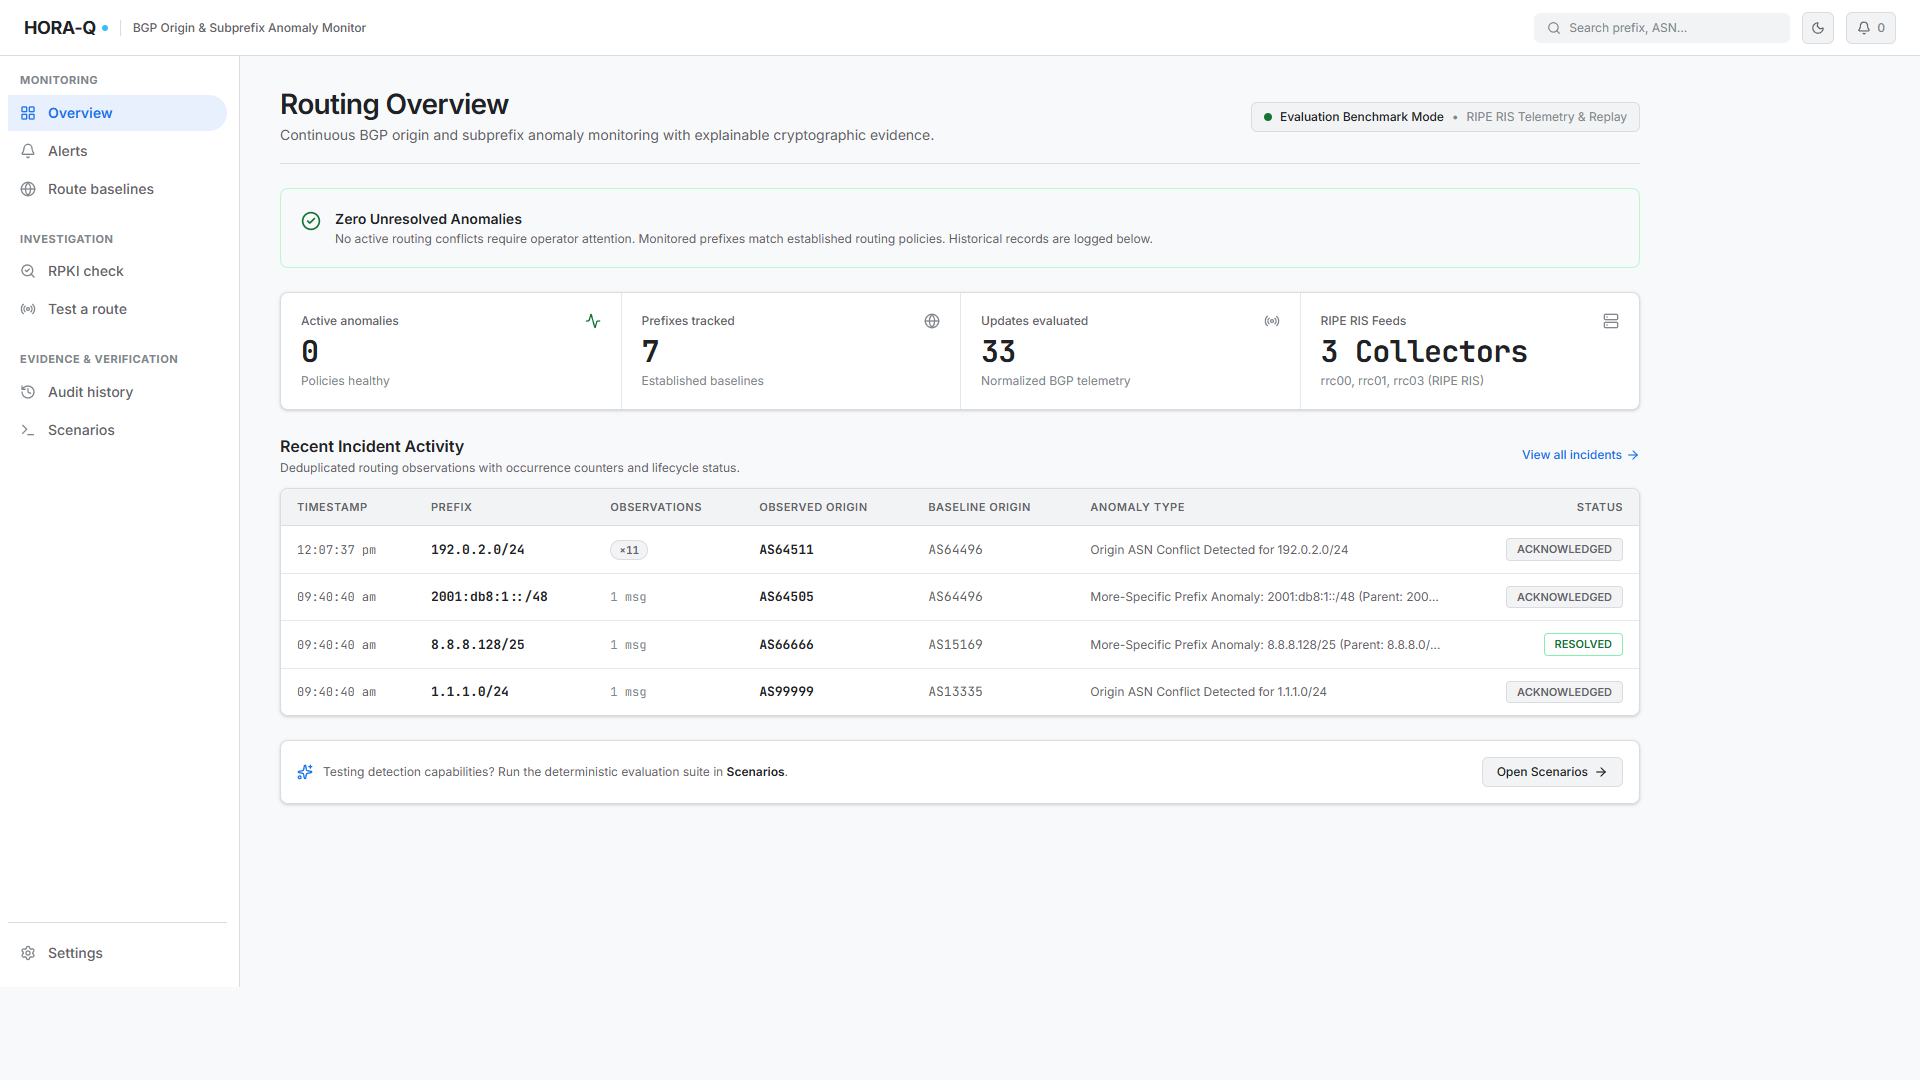
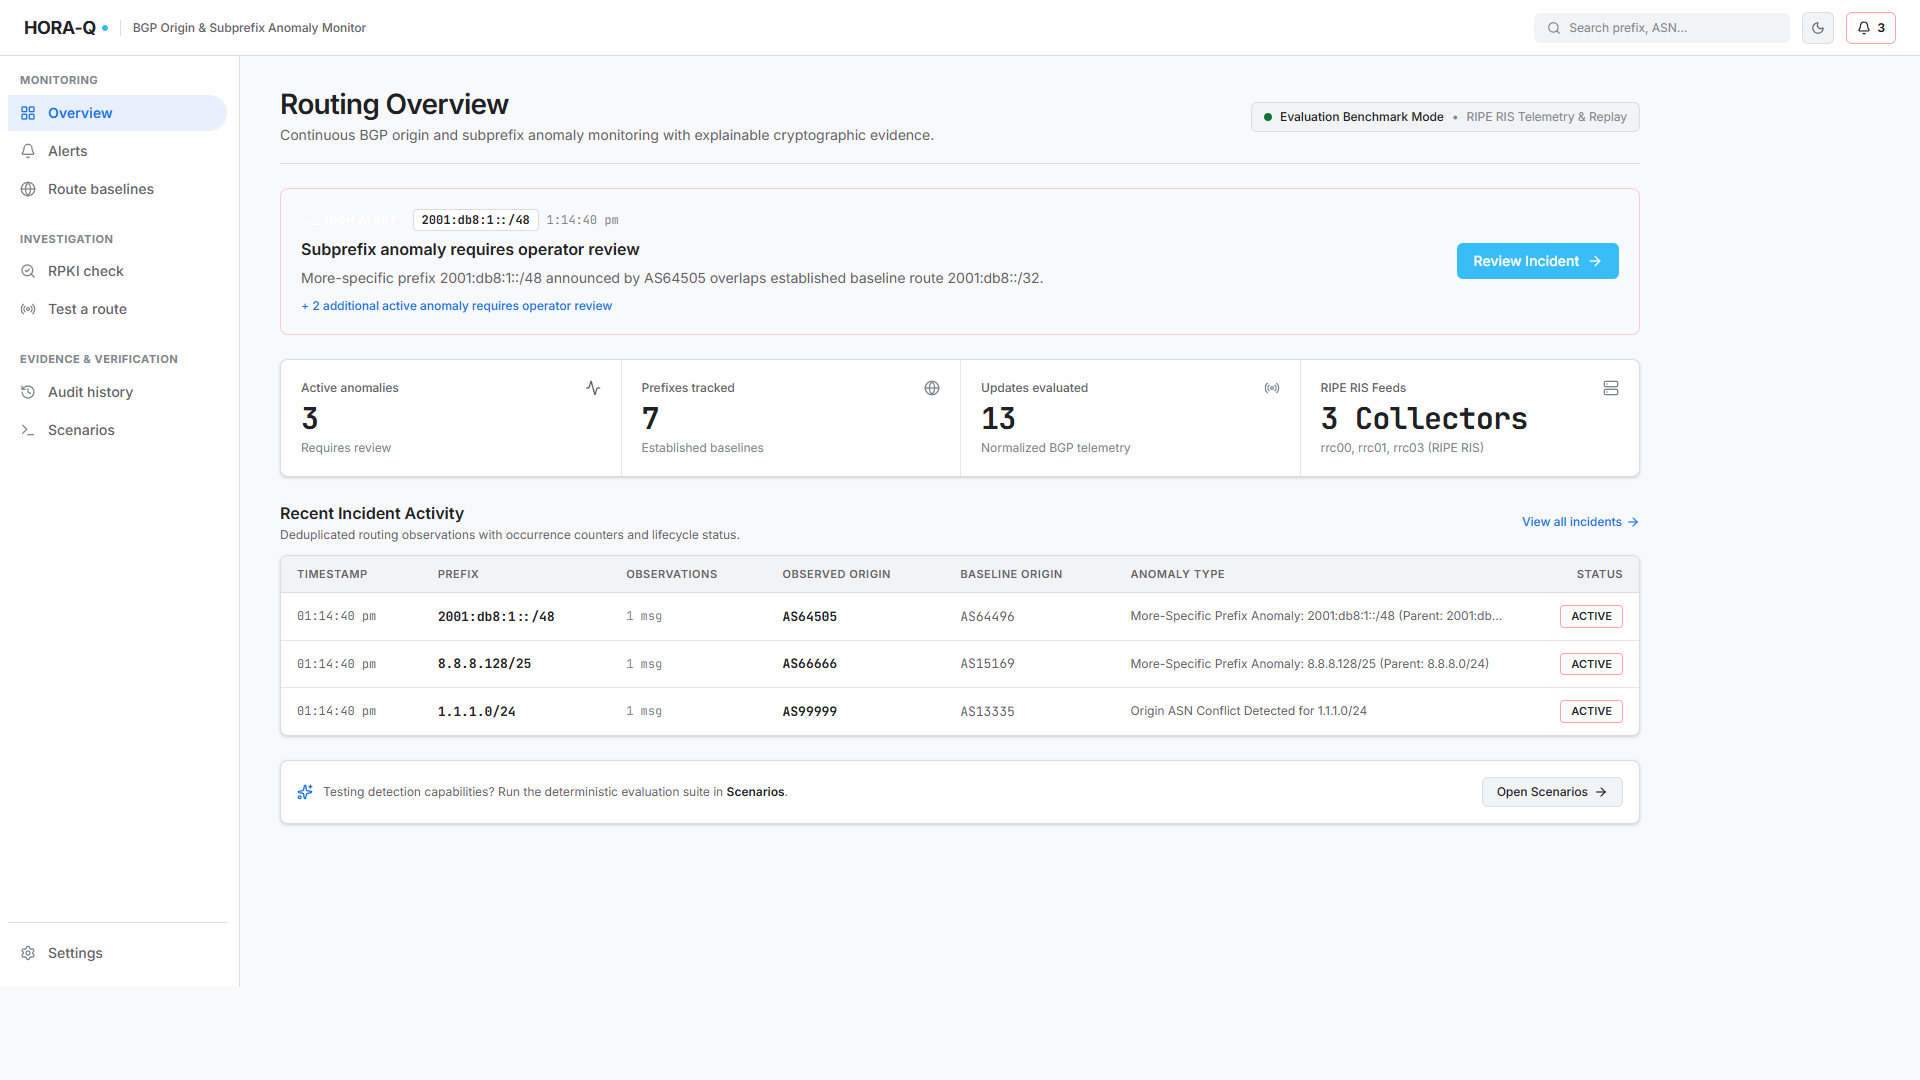
fix(consistency): resolve baseline poisoning, verify ML-DSA signing, and align cross-screen state

diff --git a/frontend/src/views/RPKIInspectorView.tsx b/frontend/src/views/RPKIInspectorView.tsx
@@ -27,6 +27,8 @@ export const RPKIInspectorView: React.FC = () => {
       setAsn(rpkiTarget.asn);
       handleValidate(rpkiTarget.prefix, rpkiTarget.asn);
       setRpkiTarget(null);
+    } else if (!result) {
+      handleValidate("1.1.1.0/24", "AS13335");
     }
   }, [rpkiTarget]);
 

diff --git a/backend/horaq/api.py b/backend/horaq/api.py
@@ -504,24 +504,27 @@ async def run_scenario_endpoint(scenario_name: str) -> Dict[str, Any]:
         # Reset and seed realistic demonstrator data for live presentations
         reset_database(settings.database_path)
 
-        # 1. Establish well-known baseline roots
+        # 1. Establish trusted reference baseline roots
         b1 = process_observation(db_path=settings.database_path, prefix_raw="1.1.1.0/24", origin_asn_raw=13335, collector="rrc00", scenario="demo-seed")
         b2 = process_observation(db_path=settings.database_path, prefix_raw="8.8.8.0/24", origin_asn_raw=15169, collector="rrc00", scenario="demo-seed")
         b3 = process_observation(db_path=settings.database_path, prefix_raw="9.9.9.0/24", origin_asn_raw=19281, collector="rrc01", scenario="demo-seed")
         b4 = process_observation(db_path=settings.database_path, prefix_raw="2001:db8::/32", origin_asn_raw=64496, collector="rrc00", scenario="demo-seed")
+        b5 = process_observation(db_path=settings.database_path, prefix_raw="192.0.2.0/24", origin_asn_raw=64496, collector="rrc00", scenario="demo-seed")
+        b6 = process_observation(db_path=settings.database_path, prefix_raw="198.51.100.0/24", origin_asn_raw=64497, collector="rrc00", scenario="demo-seed")
+        b7 = process_observation(db_path=settings.database_path, prefix_raw="203.0.113.0/24", origin_asn_raw=64499, collector="rrc00", scenario="demo-seed")
 
-        # 2. Inject Origin Conflict Incident
+        # 2. Inject Origin Conflict Incident (Baseline preserved, alert generated)
         a1 = process_observation(db_path=settings.database_path, prefix_raw="1.1.1.0/24", origin_asn_raw=99999, collector="rrc00", scenario="demo-origin-conflict")
 
-        # 3. Inject Subprefix Hijack Incident
+        # 3. Inject Subprefix Hijack Incident (Alert generated, baseline NOT poisoned)
         a2 = process_observation(db_path=settings.database_path, prefix_raw="8.8.8.128/25", origin_asn_raw=66666, collector="rrc03", scenario="demo-subprefix-hijack")
 
-        # 4. Inject IPv6 Subprefix Anomaly
+        # 4. Inject IPv6 Subprefix Anomaly (Alert generated, baseline NOT poisoned)
         a3 = process_observation(db_path=settings.database_path, prefix_raw="2001:db8:1::/48", origin_asn_raw=64505, collector="rrc00", scenario="demo-ipv6-subprefix")
 
         return {
             "scenario": "seed-demo",
-            "description": "Seeded 4 baselines and injected 3 realistic BGP anomaly incidents",
+            "description": "Seeded 7 trusted baselines and injected 3 realistic BGP anomaly incidents (baselines preserved against poisoning)",
             "alerts_generated": a1["alerts_count"] + a2["alerts_count"] + a3["alerts_count"],
             "expected_alerts": 3,
             "success": True,

diff --git a/backend/tests/test_detection.py b/backend/tests/test_detection.py
@@ -109,6 +109,12 @@ def test_subprefix_anomaly_detection(test_db):
     assert alert["parent_prefix"] == "192.0.2.0/24"
     assert alert["observed_asn"] == "AS64500"
 
+    # CRITICAL: Suspicious child subprefix MUST NOT poison or establish a baseline!
+    assert get_baseline_by_prefix(test_db, "192.0.2.128/25") is None
+    parent_base = get_baseline_by_prefix(test_db, "192.0.2.0/24")
+    assert parent_base is not None
+    assert parent_base["origin_asn"] == "AS64496"
+
 
 def test_ipv6_subprefix_anomaly_detection(test_db):
     # 1. Establish parent baseline: 2001:db8::/32
@@ -129,3 +135,50 @@ def test_ipv6_subprefix_anomaly_detection(test_db):
     alert = res["alerts"][0]
     assert alert["kind"] == "SUBPREFIX_ANOMALY"
     assert alert["parent_prefix"] == "2001:db8::/32"
+
+    # CRITICAL: Suspicious IPv6 child subprefix MUST NOT poison or establish a baseline!
+    assert get_baseline_by_prefix(test_db, "2001:db8:1::/48") is None
+    parent_base = get_baseline_by_prefix(test_db, "2001:db8::/32")
+    assert parent_base is not None
+    assert parent_base["origin_asn"] == "AS64496"
+
+
+def test_suspicious_subprefix_does_not_poison_baseline(test_db):
+    """Regression test proving complete baseline preservation against poisoning."""
+    # 1. Establish legitimate baseline
+    r1 = process_observation(
+        db_path=test_db,
+        prefix_raw="8.8.8.0/24",
+        origin_asn_raw=15169,
+        collector="rrc00",
+    )
+    assert r1["alerts_count"] == 0
+
+    # 2. Inject rogue subprefix
+    r2 = process_observation(
+        db_path=test_db,
+        prefix_raw="8.8.8.128/25",
+        origin_asn_raw=66666,
+        collector="rrc03",
+    )
+    assert r2["alerts_count"] == 1
+    assert r2["alerts"][0]["kind"] == "SUBPREFIX_ANOMALY"
+
+    # 3. Baselines table must contain ONLY 8.8.8.0/24, NOT 8.8.8.128/25
+    all_bases = get_all_baselines(test_db)
+    assert len(all_bases) == 1
+    assert all_bases[0]["prefix"] == "8.8.8.0/24"
+    assert all_bases[0]["origin_asn"] == "AS15169"
+    assert get_baseline_by_prefix(test_db, "8.8.8.128/25") is None
+
+    # 4. Subsequent legitimate parent observation increments observation_count
+    r3 = process_observation(
+        db_path=test_db,
+        prefix_raw="8.8.8.0/24",
+        origin_asn_raw=15169,
+        collector="rrc00",
+    )
+    assert r3["alerts_count"] == 0
+    updated_parent = get_baseline_by_prefix(test_db, "8.8.8.0/24")
+    assert updated_parent["observation_count"] == 2
+

diff --git a/backend/tests/test_crypto.py b/backend/tests/test_crypto.py
@@ -1,5 +1,4 @@
-"""Unit tests for ML-DSA-65 post-quantum signature behavior and no-fallback enforcement."""
-
+import base64
 import pytest
 from horaq.crypto import (
     ALGORITHM_NAME,
@@ -42,3 +41,29 @@ def test_crypto_behavior():
         # Tampered message fails verification
         tampered_data = b"Tampered evidence payload"
         assert verify_signature(tampered_data, sig_b64, pub_b64) is False
+
+        # Corrupted signature bytes fail verification
+        import base64
+        corrupted_sig = base64.b64encode(b"corrupted_signature_payload_bytes_0000").decode("ascii")
+        assert verify_signature(test_data, corrupted_sig, pub_b64) is False
+
+
+def test_corrupted_signature_rejected():
+    """Verify that an altered signature is rejected even when the payload is authentic."""
+    if not is_mldsa_available():
+        pytest.skip("ML-DSA provider not available in environment")
+
+    test_data = b'{"alert_id":"alert-001","prefix":"1.1.1.0/24"}'
+    sig_b64, pub_b64 = sign_data(test_data)
+
+    # 1. Authentic passes
+    assert verify_signature(test_data, sig_b64, pub_b64) is True
+
+    # 2. Corrupt one byte of the signature
+    sig_bytes = bytearray(base64.b64decode(sig_b64))
+    sig_bytes[10] ^= 0xFF
+    corrupted_sig_b64 = base64.b64encode(sig_bytes).decode("ascii")
+
+    # 3. Must be mathematically rejected
+    assert verify_signature(test_data, corrupted_sig_b64, pub_b64) is False
+

diff --git a/backend/horaq/detection.py b/backend/horaq/detection.py
@@ -159,8 +159,12 @@ def process_observation(
             generated_alerts.append(alert_obj)
 
         # B. Check Origin-AS Change or Seed Baseline
-        if existing_baseline is None:
-            # Baseline Seeding — first observation seeds reference origin, NO alert
+        if generated_alerts:
+            # CRITICAL SECURITY RULE: Anomaly detected (e.g. Subprefix Containment Anomaly).
+            # Suspicious announcements MUST NOT establish or poison trusted baselines!
+            pass
+        elif existing_baseline is None:
+            # Baseline Seeding — clean initial observation seeds reference origin, NO alert
             conn.execute(
                 "INSERT INTO baselines (prefix, origin_asn, first_seen, last_seen, observation_count, updated_at) "
                 "VALUES (?, ?, ?, ?, 1, ?);",
